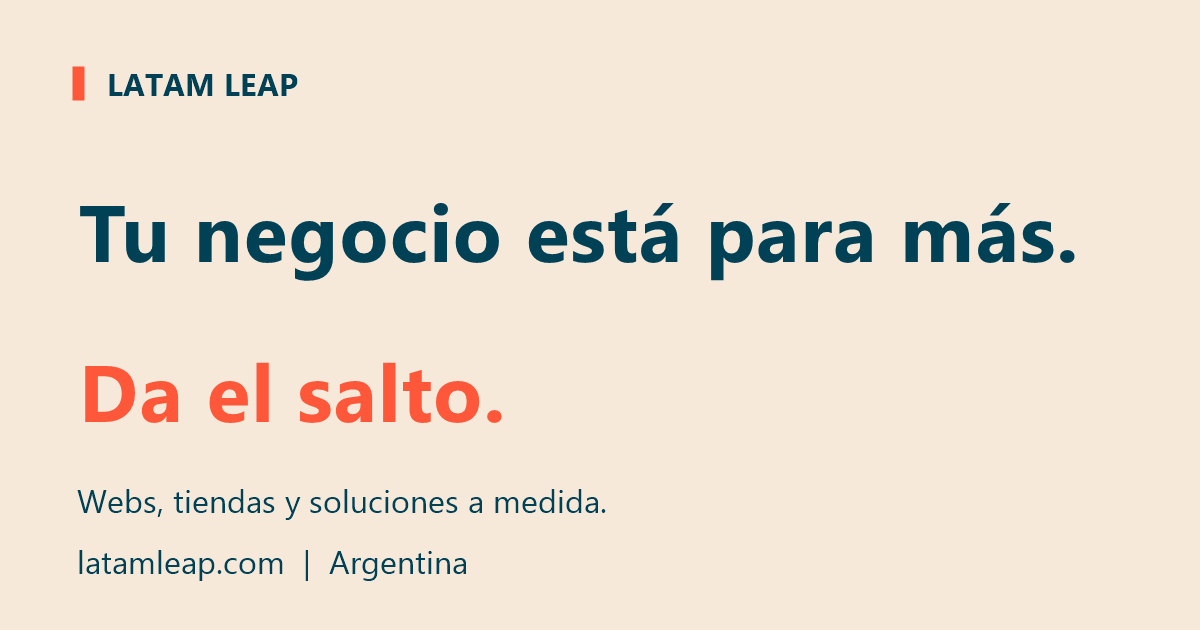
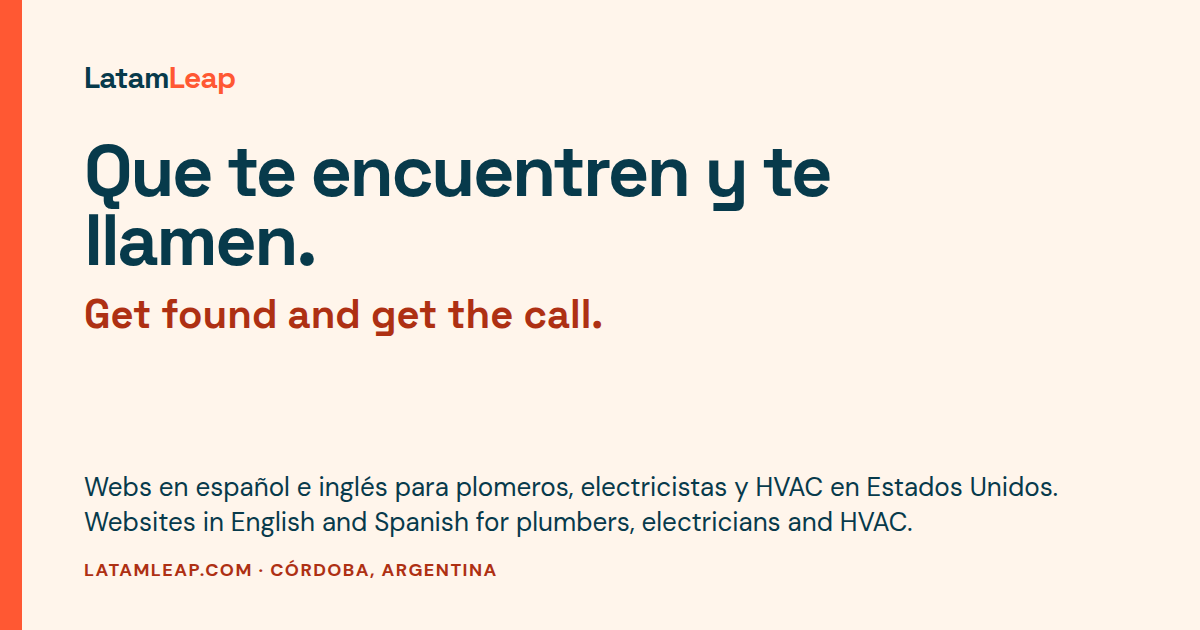
Publish the USD 497 US launch price and pain-led copy. (#5)
The first five clients pay USD 497 in exchange for a testimonial and permission to show the site; after that the price is USD 597, written out with no countdown or spot counter. The US hero and offer intro lead with getting found and getting the call. Also replace the share image, retire /pago, and fix the Argentina menu, tú, footer tap targets, and Google profile contrast.

diff --git a/src/components/HomeSections.tsx b/src/components/HomeSections.tsx
@@ -1,5 +1,6 @@
 import { useContext } from "react";
 import { LanguageContext } from "@/lib/language-context";
+import offers from "../../shared/offers.json";
 import { Copy } from "@/lib/copy";
 import { LocalizedAnchor } from "@/lib/language";
 import { EXAMPLE_URL, INSTAGRAM_URL, whatsAppUrl } from "@/lib/sales";
@@ -16,8 +17,8 @@ import gonzaloAlvarezSmall from "@/assets/projects/gonzalo-alvarez-600.webp";
 export const WHATSAPP_URL = whatsAppUrl("es");
 
 const projects = [
-  { name: "vet.mavie", es: "Sitio web para especialistas veterinarias", en: "Website for veterinary specialists", image: vetMavie, smallImage: vetMavieSmall, href: "https://www.vetmavie.com/", altEs: "Sitio web de vet.mavie", altEn: "vet.mavie website" },
-  { name: "Psicólogo Gonzalo Álvarez", es: "Sitio para un consultorio en Argentina", en: "Website for a practice in Argentina", image: gonzaloAlvarez, smallImage: gonzaloAlvarezSmall, href: "https://www.psicogonzaloalvarez.com/", altEs: "Sitio web del psicólogo Gonzalo Álvarez", altEn: "Website of psychologist Gonzalo Álvarez" },
+  { name: "vet.mavie", nameEn: "vet.mavie", es: "Sitio web para especialistas veterinarias", en: "Website for veterinary specialists", image: vetMavie, smallImage: vetMavieSmall, href: "https://www.vetmavie.com/", altEs: "Sitio web de vet.mavie", altEn: "vet.mavie website" },
+  { name: "Psicólogo Gonzalo Álvarez", nameEn: "Psychologist Gonzalo Álvarez", es: "Sitio para un consultorio en Argentina", en: "Website for a practice in Argentina", image: gonzaloAlvarez, smallImage: gonzaloAlvarezSmall, href: "https://www.psicogonzaloalvarez.com/", altEs: "Sitio web del psicólogo Gonzalo Álvarez", altEn: "Website of psychologist Gonzalo Álvarez" },
 ];
 
 const steps = [
@@ -41,10 +42,10 @@ export const ConnectedSystem = () => (<div className="relative min-h-[430px] sm:
       <div className="grid grid-cols-3 gap-2"><span className="h-12 rounded bg-background/15"/><span className="h-12 rounded bg-background/15"/><span className="h-12 rounded bg-primary"/></div>
     </div>
     <div className="absolute left-[12%] bottom-[14%] bg-card border border-border rounded-lg p-4 shadow-studio w-[49%] animate-float-slow">
-      <div className="flex items-center gap-2 text-xs font-bold text-muted-foreground mb-3"><Code2 size={15} className="text-primary"/><Copy es="Precio fijo" en="Fixed price" /></div>
+      <div className="flex items-center gap-2 text-xs font-bold text-muted-foreground mb-3"><Code2 size={15} className="text-primary"/><Copy es="Lanzamiento" en="Launch price" /></div>
       <div className="space-y-2"><div className="h-1.5 w-5/6 rounded bg-accent"/><div className="h-1.5 w-2/3 rounded bg-muted"/><div className="h-1.5 w-4/5 rounded bg-primary"/></div>
     </div>
-    <div className="absolute right-[8%] bottom-[7%] bg-primary text-primary-foreground rounded-lg px-4 py-3 shadow-studio flex items-center gap-2 text-xs font-bold"><Check size={16}/><span>USD 597</span></div>
+    <div className="absolute right-[8%] bottom-[7%] bg-primary text-primary-foreground rounded-lg px-4 py-3 shadow-studio flex items-center gap-2 text-xs font-bold"><Check size={16}/><span>USD {offers.us.price}</span></div>
     <svg className="absolute inset-0 w-full h-full pointer-events-none" viewBox="0 0 600 500" fill="none" aria-hidden="true"><path d="M220 120C350 120 320 220 420 220M420 280C360 330 300 350 220 380" stroke="currentColor" className="text-primary/50" strokeWidth="2" strokeDasharray="6 8"/></svg>
   </div>
 </div>);
@@ -65,7 +66,7 @@ export const PortfolioSection = () => { const language = useContext(LanguageCont
             </div>
             <div className="lg:col-span-4 lg:px-5">
               <span className="text-xs font-bold text-primary-text">0{index + 1}</span>
-              <h3 className="text-2xl md:text-3xl font-bold mt-3 mb-3 group-hover:text-primary-text transition-colors">{project.name}</h3>
+              <h3 className="text-2xl md:text-3xl font-bold mt-3 mb-3 group-hover:text-primary-text transition-colors">{language === "en" ? project.nameEn : project.name}</h3>
               <p className="text-muted-foreground leading-relaxed mb-5"><Copy es={project.es} en={project.en} /></p>
               <span className="inline-flex items-center gap-2 text-sm font-bold"><Copy es="Ver proyecto" en="View project" /><ArrowUpRight size={16}/></span>
             </div>
@@ -82,7 +83,7 @@ export const ExampleSection = () => (<section id="ejemplo" className="py-20 lg:p
       <p className="section-kicker"><Copy es="Ejemplo" en="Example" /></p>
       <h2 className="text-4xl md:text-6xl font-bold leading-[1.02] mb-5"><Copy es="Así puede verse un negocio de servicios." en="This is what a service business can look like." /></h2>
       <p className="text-lg text-muted-foreground mb-4"><Copy es="Ejemplo de diseño. Negocio ficticio." en="Sample design. Fictional business." /></p>
-      <p className="text-muted-foreground leading-relaxed mb-6"><Copy es="Prime Home Solutions no es un cliente. Es una muestra de plomería, electricidad y HVAC. Lo que incluye el precio está en la oferta de abajo: no todo lo que aparece en el ejemplo forma parte de los USD 597." en="Prime Home Solutions is not a client. It is a sample for plumbing, electrical and HVAC work. What the price includes is in the offer below: not everything on the example is part of the USD 597." /></p>
+      <p className="text-muted-foreground leading-relaxed mb-6"><Copy es={`Prime Home Solutions no es un cliente. Es una muestra de plomería, electricidad y HVAC. Lo que incluye el precio está en la oferta de abajo: no todo lo que aparece en el ejemplo forma parte de los USD ${offers.us.price} de lanzamiento ni de los USD ${offers.us.regularPrice} de después.`} en={`Prime Home Solutions is not a client. It is a sample for plumbing, electrical and HVAC work. What the price includes is in the offer below: not everything on the example is part of the USD ${offers.us.price} launch price or the USD ${offers.us.regularPrice} price after that.`} /></p>
       <ExampleButton />
     </AnimatedSection>
     <figure className="mx-auto w-full max-w-sm">
@@ -121,7 +122,7 @@ export const FinalCTASection = () => (<section id="contacto" className="py-20 lg
     </div>
   </AnimatedSection>
   <AnimatedSection delay={.1} className="bg-card border border-border rounded-lg p-6 md:p-8 shadow-studio">
-    <h3 className="text-2xl font-bold mb-2"><Copy es="Contanos de tu negocio" en="Tell us about your business" /></h3>
+    <h3 className="text-2xl font-bold mb-2"><Copy es="Cuéntame de tu negocio" en="Tell me about your business" /></h3>
     <p className="text-sm text-muted-foreground mb-5"><Copy es="Esto no reserva un diseño. Si encaja, el siguiente paso es la reunión de 10 minutos." en="This does not reserve a design. If it's a fit, the next step is the 10-minute meeting." /></p>
     <AuditForm />
   </AnimatedSection>

diff --git a/src/components/OfferSections.tsx b/src/components/OfferSections.tsx
@@ -92,15 +92,16 @@ export function OfferPricing() {
   return <section id="oferta" className="py-20 lg:py-28 bg-secondary scroll-mt-24"><div id="precios" className="max-w-7xl mx-auto px-5 sm:px-6 scroll-mt-24">
     <div className="max-w-3xl mb-10">
       <p className="section-kicker"><Copy es="La oferta" en="The offer" /></p>
-      <h2 className="text-4xl md:text-6xl font-bold mb-5"><Copy es="Un precio fijo, escrito." en="One fixed price, in writing." /></h2>
-      <p className="text-lg text-muted-foreground"><Copy es="Sin precios tachados y sin lugares limitados. Dominio, hosting y herramientas los pagas tú, en tus propias cuentas." en="No crossed-out prices and no limited spots. You pay for the domain, hosting and tools yourself, in your own accounts." /></p>
+      <h2 className="text-4xl md:text-6xl font-bold mb-5"><Copy es="Para que te encuentren y te llamen." en="So you get found and get the call." /></h2>
+      <p className="text-lg text-muted-foreground"><Copy es={`Si hoy no tienen dónde verte, llaman a otro. Precio de lanzamiento: USD ${offers.us.price} para mis primeros 5 clientes, a cambio de un testimonio y permiso para mostrar tu sitio. Después, USD ${offers.us.regularPrice}. Sin precios tachados y sin contadores de lugares. Dominio, hosting y herramientas los pagas tú, en tus propias cuentas.`} en={`If they have nowhere to see you today, they call someone else. Launch price: USD ${offers.us.price} for my first 5 clients, in exchange for a testimonial and permission to show your site. After that, USD ${offers.us.regularPrice}. No crossed-out prices and no spot counters. You pay for the domain, hosting and tools yourself, in your own accounts.`} /></p>
     </div>
     <article className="max-w-3xl bg-card border border-border rounded-xl p-7 md:p-10 shadow-studio">
       <h3 className="text-2xl md:text-3xl font-bold"><Copy es={offers.us.name.es} en={offers.us.name.en} /></h3>
-      <p className="text-4xl md:text-5xl font-bold mt-4">USD {offers.us.price}</p>
-      <p className="text-sm font-bold text-primary-text mt-1"><Copy es="Precio fijo" en="Fixed price" /></p>
+      <p className="text-sm font-bold uppercase tracking-[0.12em] text-primary-text mt-4"><Copy es="Precio de lanzamiento" en="Launch price" /></p>
+      <p className="text-4xl md:text-5xl font-bold mt-2">USD {offers.us.price}</p>
+      <p className="text-base leading-relaxed mt-3"><Copy es={`Para mis primeros 5 clientes, a cambio de un testimonio y permiso para mostrar tu sitio. Después, USD ${offers.us.regularPrice}.`} en={`For my first 5 clients, in exchange for a testimonial and permission to show your site. After that, USD ${offers.us.regularPrice}.`} /></p>
       <ul className="space-y-3 my-6">{includes.es.map((feature, index) => <li key={feature} className="flex gap-2 text-sm md:text-base"><Check size={18} aria-hidden="true" className="text-primary-text shrink-0 mt-0.5" /><Copy es={feature} en={includes.en[index]} /></li>)}</ul>
-      <p className="text-sm text-muted-foreground leading-relaxed"><Copy es="Alcance del perfil de Google: crear o reclamar la ficha en tu cuenta, categorías, zona de servicio, horarios, descripción en español y en inglés, y el enlace a la web. Las fotos las traes tú. La verificación la haces tú, según lo que pida Google. No garantizo aparecer ni quedar primero." en="Google profile scope: create or claim the listing in your account, categories, service area, hours, an English and Spanish description, and the link to the site. You provide the photos. You complete verification, however Google asks for it. I don't guarantee that you will show up or rank first." /></p>
+      <p className="text-base text-foreground leading-relaxed"><Copy es="Alcance del perfil de Google: crear o reclamar la ficha en tu cuenta, categorías, zona de servicio, horarios, descripción en español y en inglés, y el enlace a la web. Las fotos las traes tú. La verificación la haces tú, según lo que pida Google. No garantizo aparecer ni quedar primero." en="Google profile scope: create or claim the listing in your account, categories, service area, hours, an English and Spanish description, and the link to the site. You provide the photos. You complete verification, however Google asks for it. I don't guarantee that you will show up or rank first." /></p>
       <p className="text-sm text-muted-foreground leading-relaxed mt-4"><Copy es="Pagas aparte, en tus propias cuentas: dominio, hosting y cualquier herramienta. Todo queda a tu nombre." en="You pay separately, in your own accounts: domain, hosting and any tools. Everything stays in your name." /></p>
       <p className="font-bold mt-4"><Copy es="Pago: 50% para empezar, 50% antes de publicar, por solicitud de pago de Wise." en="Payment: 50% to start, 50% before launch, by Wise payment request." /></p>
       <div className="mt-8 border-t border-border pt-6">

diff --git a/src/components/Footer.tsx b/src/components/Footer.tsx
@@ -1,15 +1,20 @@
+import { Link, useLocation } from "react-router-dom";
 import { Copy } from "@/lib/copy";
 import { LocalizedAnchor } from "@/lib/language";
-import { Link } from "react-router-dom";
 import { Instagram } from "lucide-react";
 import { INSTAGRAM_URL, whatsAppUrl } from "@/lib/sales";
 import { ArgentinaLink } from "./SalesActions";
 
-const links = [
+const usLinks = [
   { es: "Ejemplo", en: "Example", href: "/#ejemplo" },
   { es: "Precio", en: "Price", href: "/#oferta" },
   { es: "Proceso", en: "Process", href: "/#proceso" },
   { es: "Preguntas", en: "Questions", href: "/#preguntas" },
+];
+const argentinaLinks = [
+  { es: "Precio", en: "Precio", href: "#oferta" },
+  { es: "Trabajos", en: "Trabajos", href: "#trabajos" },
+  { es: "A medida", en: "A medida", href: "#a-medida" },
 ];
 const legalLinks = [
   { es: "Privacidad", en: "Privacy", href: "/privacy-policy" },
@@ -17,7 +22,12 @@ const legalLinks = [
   { es: "Eliminar datos", en: "Delete data", href: "/data-deletion" },
 ];
 
-const Footer = () => (<footer className="bg-foreground text-background py-12">
+const tap = "inline-flex items-center min-h-11 px-3 text-sm text-background/80 hover:text-primary transition-colors";
+
+const Footer = () => {
+  const onArgentina = useLocation().pathname === "/argentina";
+  const links = onArgentina ? argentinaLinks : usLinks;
+  return (<footer className="bg-foreground text-background pt-12 pb-28 lg:pb-12">
   <div className="max-w-7xl mx-auto px-6 flex flex-col gap-8">
     <div className="flex flex-col md:flex-row items-center justify-between gap-6">
       <div className="text-center md:text-left">
@@ -26,23 +36,24 @@ const Footer = () => (<footer className="bg-foreground text-background py-12">
         </div>
         <p className="text-[11px] text-background/60"><Copy es="© 2026 Latam Leap. Estudio en Córdoba, Argentina. Webs para negocios de servicios." en="© 2026 Latam Leap. Studio in Córdoba, Argentina. Websites for service businesses." /></p>
       </div>
-      <div className="flex items-center gap-6 flex-wrap justify-center">
-        {links.map((l) => (<LocalizedAnchor key={l.href} href={l.href} className="text-xs text-background/70 hover:text-primary transition-colors">
+      <div className="flex items-center gap-1 flex-wrap justify-center">
+        {links.map((l) => onArgentina ? (<a key={l.href} href={l.href} className={tap}><Copy es={l.es} en={l.en} /></a>) : (<LocalizedAnchor key={l.href} href={l.href} className={tap}>
           <Copy es={l.es} en={l.en} />
         </LocalizedAnchor>))}
-        <LocalizedAnchor href={INSTAGRAM_URL} target="_blank" rel="noopener noreferrer" className="inline-flex items-center gap-1.5 text-xs text-background/70 hover:text-primary transition-colors">
-          <Instagram size={14}/> Instagram
+        <LocalizedAnchor href={INSTAGRAM_URL} target="_blank" rel="noopener noreferrer" className={`${tap} gap-1.5`}>
+          <Instagram size={16}/> Instagram
         </LocalizedAnchor>
-        <LocalizedAnchor href={whatsAppUrl("es")} target="_blank" rel="noopener noreferrer" className="text-xs bg-primary text-primary-foreground font-bold px-4 py-2 rounded-lg hover:bg-primary-hover transition-all">WhatsApp →</LocalizedAnchor>
+        <LocalizedAnchor href={whatsAppUrl("es")} target="_blank" rel="noopener noreferrer" className="inline-flex items-center min-h-11 text-sm bg-primary text-primary-foreground font-bold px-4 rounded-lg hover:bg-primary-hover transition-all">WhatsApp →</LocalizedAnchor>
       </div>
     </div>
-    <div className="border-t border-background/20 pt-6 flex flex-col md:flex-row items-center justify-center gap-x-6 gap-y-3 flex-wrap">
-      <ArgentinaLink className="text-[11px] text-background/80 hover:text-primary transition-colors underline-offset-4 hover:underline min-h-11 inline-flex items-center" />
-      {legalLinks.map((l) => (<Link key={l.href} to={l.href} className="text-[11px] text-background/60 hover:text-primary transition-colors">
+    <div className="border-t border-background/20 pt-4 flex flex-col md:flex-row items-center justify-center gap-x-1 gap-y-1 flex-wrap">
+      <ArgentinaLink className={`${tap} underline-offset-4 hover:underline`} />
+      {legalLinks.map((l) => (<Link key={l.href} to={l.href} className={tap}>
         <Copy es={l.es} en={l.en} />
       </Link>))}
-      <a href="mailto:hola@latamleap.com" className="text-[11px] text-background/60 hover:text-primary transition-colors">hola@latamleap.com</a>
+      <a href="mailto:hola@latamleap.com" className={tap}>hola@latamleap.com</a>
     </div>
   </div>
 </footer>);
+};
 export default Footer;

diff --git a/src/components/HeroSection.tsx b/src/components/HeroSection.tsx
@@ -1,4 +1,5 @@
 import { Copy } from "@/lib/copy";
+import offers from "../../shared/offers.json";
 import SocialLinks from "./SocialLinks";
 import { ConnectedSystem } from "./HomeSections";
 import { ArgentinaLink, BookButton, ExampleButton, WhatsAppLink } from "./SalesActions";
@@ -8,8 +9,11 @@ const HeroSection = () => (<section className="relative pt-8 lg:pt-12 pb-16 lg:p
     <div className="grid lg:grid-cols-[1.02fr_.98fr] gap-12 lg:gap-16 items-center">
       <div className="max-w-2xl">
         <p className="section-kicker"><Copy es="Estudio en Córdoba, Argentina" en="Studio in Córdoba, Argentina" /></p>
-        <h1 className="font-bold text-[42px] sm:text-6xl lg:text-[64px] xl:text-[68px] leading-[.98] mb-7"><Copy es="Una web en español y en inglés para tu negocio de servicios." en="A website in English and Spanish for your service business." /></h1>
-        <p className="text-muted-foreground text-lg lg:text-xl leading-relaxed max-w-xl mb-8"><Copy es="Para plomeros, electricistas y técnicos de HVAC. Tus clientes ven qué haces y en qué zona trabajas, y te mandan el pedido por WhatsApp. Precio fijo: USD 597. Trabajo a distancia: no tengo oficina en Estados Unidos." en="For plumbers, electricians and HVAC pros. Customers see what you do and where you work, and send you the job request on WhatsApp. Fixed price: USD 597. I work remotely: I don't have an office in the United States." /></p>
+        <h1 className="font-bold text-[42px] sm:text-6xl lg:text-[64px] xl:text-[68px] leading-[.98] mb-5"><Copy es="Te buscan en Google y llaman a otro." en="They search on Google and call someone else." /></h1>
+        <p className="text-xl lg:text-2xl font-bold leading-snug mb-5"><Copy es="Para que te encuentren y te llamen." en="So you get found and get the call." /></p>
+        <p className="text-muted-foreground text-lg lg:text-xl leading-relaxed max-w-xl mb-4"><Copy es="Si no te encuentran, o no confían en lo que ven, llaman al competidor que sí tiene una web. Si dependes del boca a boca o de Facebook, el cliente que habla inglés no tiene dónde verte. Me mandas el logo y las fotos por WhatsApp: yo hago el resto, incluido tu perfil de Google. Primera versión en 2 días hábiles después de la seña y los materiales completos." en="If they don't find you, or they don't trust what they see, they call the competitor who does have a website. If you rely on word of mouth or Facebook, English-speaking customers have nowhere to see you. You send your logo and photos over WhatsApp: I do the rest, including your Google profile. First version in 2 business days after the deposit and the complete materials." /></p>
+        <p className="text-foreground text-lg leading-relaxed max-w-xl mb-3"><Copy es={`Precio de lanzamiento: USD ${offers.us.price} para mis primeros 5 clientes, a cambio de un testimonio y permiso para mostrar tu sitio. Después, USD ${offers.us.regularPrice}.`} en={`Launch price: USD ${offers.us.price} for my first 5 clients, in exchange for a testimonial and permission to show your site. After that, USD ${offers.us.regularPrice}.`} /></p>
+        <p className="text-sm text-muted-foreground max-w-xl mb-8"><Copy es="Trabajo a distancia: no tengo oficina en Estados Unidos." en="I work remotely: I don't have an office in the United States." /></p>
         <div className="flex flex-col sm:flex-row sm:flex-wrap gap-3 sm:items-center">
           <BookButton />
           <ExampleButton />

diff --git a/src/components/Navbar.tsx b/src/components/Navbar.tsx
@@ -6,11 +6,16 @@ import { useContext, useState, useEffect } from "react";
 import { Link, useLocation } from "react-router-dom";
 import { Menu, X } from "lucide-react";
 
-const links = [
+const usLinks = [
   { es: "Ejemplo", en: "Example", href: "/#ejemplo" },
   { es: "Precio", en: "Price", href: "/#oferta" },
   { es: "Proceso", en: "Process", href: "/#proceso" },
   { es: "Preguntas", en: "Questions", href: "/#preguntas" },
+];
+const argentinaLinks = [
+  { es: "Precio", en: "Precio", href: "#oferta" },
+  { es: "Trabajos", en: "Trabajos", href: "#trabajos" },
+  { es: "A medida", en: "A medida", href: "#a-medida" },
 ];
 
 const Navbar = () => {
@@ -18,6 +23,8 @@ const Navbar = () => {
   const [open, setOpen] = useState(false);
   const [scrolled, setScrolled] = useState(false);
   const location = useLocation();
+  const onArgentina = location.pathname === "/argentina";
+  const links = onArgentina ? argentinaLinks : usLinks;
   useEffect(() => {
     const onScroll = () => setScrolled(window.scrollY > 20);
     window.addEventListener("scroll", onScroll, { passive: true });
@@ -33,17 +40,17 @@ const Navbar = () => {
         <span className="font-display font-bold text-foreground text-xl">Latam<span className="text-primary">Leap</span></span>
       </Link>
       <div className="hidden lg:flex items-center gap-6 xl:gap-8">
-        {links.map((l) => (<a key={l.href} href={location.pathname === "/argentina" && l.href === "/#oferta" ? "#oferta" : language === "en" ? `/en${l.href}` : l.href} className="text-sm text-muted-foreground hover:text-foreground transition-colors">
+        {links.map((l) => (<a key={l.href} href={onArgentina ? l.href : language === "en" ? `/en${l.href}` : l.href} className="text-sm text-muted-foreground hover:text-foreground transition-colors">
           <Copy es={l.es} en={l.en} />
         </a>))}
         <BookButton />
       </div>
-      <div className="flex items-center gap-3"><LanguageSwitcher /><button className="lg:hidden text-foreground p-2 -mr-2 min-h-11 min-w-11 inline-flex items-center justify-center" onClick={() => setOpen(!open)} aria-label={language === "en" ? (open ? "Close menu" : "Open menu") : (open ? "Cerrar menú" : "Abrir menú")} aria-expanded={open}>
+      <div className="flex items-center gap-3">{onArgentina ? null : <LanguageSwitcher />}<button className="lg:hidden text-foreground p-2 -mr-2 min-h-11 min-w-11 inline-flex items-center justify-center" onClick={() => setOpen(!open)} aria-label={language === "en" ? (open ? "Close menu" : "Open menu") : (open ? "Cerrar menú" : "Abrir menú")} aria-expanded={open}>
         {open ? <X size={24}/> : <Menu size={24}/>}
       </button></div>
     </div>
     {open && (<div className="lg:hidden bg-card border-t border-border px-6 py-6 space-y-4">
-      {links.map((l) => (<a key={l.href} href={location.pathname === "/argentina" && l.href === "/#oferta" ? "#oferta" : language === "en" ? `/en${l.href}` : l.href} className="block text-foreground text-base min-h-11" onClick={() => setOpen(false)}>
+      {links.map((l) => (<a key={l.href} href={onArgentina ? l.href : language === "en" ? `/en${l.href}` : l.href} className="inline-flex items-center text-foreground text-base min-h-11" onClick={() => setOpen(false)}>
         <Copy es={l.es} en={l.en} />
       </a>))}
       <BookButton className="w-full" />

diff --git a/index.html b/index.html
@@ -11,7 +11,7 @@
     <link rel="preload" href="/fonts/dm-sans-latin.woff2" as="font" type="font/woff2" crossorigin>
     <link rel="preload" href="/fonts/space-grotesk-latin.woff2" as="font" type="font/woff2" crossorigin>
     <title>Web bilingüe para negocios de servicios | Latam Leap</title>
-    <meta name="description" content="Web bilingüe para plomeros, electricistas y HVAC en EE. UU. Cinco secciones, formulario a WhatsApp y Google Business Profile. Precio fijo USD 597.">
+    <meta name="description" content="Web bilingüe para plomeros, electricistas y HVAC en EE. UU. Que te encuentren y te llamen. Precio de lanzamiento: USD 497 para los primeros 5 clientes; después, USD 597.">
     
     
     <meta property="og:type" content="website" />
@@ -32,13 +32,14 @@
   
   <meta property="og:title" content="Web bilingüe para negocios de servicios | Latam Leap">
   <meta name="twitter:title" content="Web bilingüe para negocios de servicios | Latam Leap">
-  <meta property="og:description" content="Web bilingüe para plomeros, electricistas y HVAC en EE. UU. Cinco secciones, formulario a WhatsApp y Google Business Profile. Precio fijo USD 597.">
-  <meta name="twitter:description" content="Web bilingüe para plomeros, electricistas y HVAC en EE. UU. Cinco secciones, formulario a WhatsApp y Google Business Profile. Precio fijo USD 597.">
+  <meta property="og:description" content="Web bilingüe para plomeros, electricistas y HVAC en EE. UU. Que te encuentren y te llamen. Precio de lanzamiento: USD 497 para los primeros 5 clientes; después, USD 597.">
+  <meta name="twitter:description" content="Web bilingüe para plomeros, electricistas y HVAC en EE. UU. Que te encuentren y te llamen. Precio de lanzamiento: USD 497 para los primeros 5 clientes; después, USD 597.">
 
 <meta property="og:site_name" content="Latam Leap" />
 <meta property="og:image:width" content="1200" />
 <meta property="og:image:height" content="630" />
-<meta property="og:image:alt" content="LatamLeap: webs bilingües para negocios de servicios." />
+<meta property="og:image:alt" content="LatamLeap: que te encuentren y te llamen. Webs en español e inglés para plomeros, electricistas y HVAC." />
+<meta name="twitter:image:alt" content="LatamLeap: que te encuentren y te llamen. Webs en español e inglés para plomeros, electricistas y HVAC." />
 </head>
   <body>
     <div id="root"></div>

diff --git a/src/components/SEO.tsx b/src/components/SEO.tsx
@@ -15,7 +15,7 @@ export default function SEO() {
   const route = model.localized(pathname, language);
   useEffect(() => {
     const page = model.pages[route];
-    const [title, description] = page || (language === "es" ? ["Página no disponible | Latam Leap", "Consultá nuestros servicios o volvé al inicio."] : ["Page unavailable | Latam Leap", "Explore our services or return to the home page."]);
+    const [title, description] = page || (language === "es" ? ["Página no disponible | Latam Leap", "Consulta nuestros servicios o vuelve al inicio."] : ["Page unavailable | Latam Leap", "Explore our services or return to the home page."]);
     document.title = title;
     document.documentElement.lang = language;
     const meta = (selector: string, value: string) => document.querySelector(selector)?.setAttribute("content", value);
@@ -26,8 +26,13 @@ export default function SEO() {
     meta('meta[property="og:locale"]', language === "es" ? "es_AR" : "en_US");
     meta('meta[name="twitter:title"]', title);
     meta('meta[name="twitter:description"]', description);
+    const imageAlt = language === "es"
+      ? "LatamLeap: que te encuentren y te llamen. Webs en español e inglés para plomeros, electricistas y HVAC."
+      : "LatamLeap: get found and get the call. Websites in English and Spanish for plumbers, electricians and HVAC.";
     meta('meta[property="og:image"]', `${model.origin}/og-latamleap.png`);
+    meta('meta[property="og:image:alt"]', imageAlt);
     meta('meta[name="twitter:image"]', `${model.origin}/og-latamleap.png`);
+    meta('meta[name="twitter:image:alt"]', imageAlt);
     meta('meta[name="twitter:card"]', "summary_large_image");
     meta('meta[name="robots"]', model.isIndexable(route) ? "index,follow,max-image-preview:large" : "noindex,follow");
     const google = String(seo.googleSiteVerification || "").trim();

diff --git a/src/components/AuditForm.tsx b/src/components/AuditForm.tsx
@@ -36,12 +36,12 @@ export default function AuditForm({ showWhatsAppAlt = true }: Props) {
       const response = await fetch("/api/leads", { method: "POST", headers: { "Content-Type": "application/json" }, body: JSON.stringify({ ...payload, submissionId: submission.current.id }), signal: AbortSignal.timeout(20000) });
       const result = await response.json();
       if (!response.ok || !result.ok) {
-        setError(response.status === 429 ? "Esperá un minuto antes de volver a enviar. También podés escribirnos por WhatsApp." : "No pudimos enviar tu consulta. Tus datos siguen acá: intentá nuevamente o escribinos por WhatsApp.");
+        setError(response.status === 429 ? "Espera un minuto antes de volver a enviar. También puedes escribirme por WhatsApp." : "No pudimos enviar tu consulta. Tus datos siguen aquí: intenta de nuevo o escríbeme por WhatsApp.");
         setStatus("error"); return;
       }
       setStatus("success");
     } catch {
-      setError("No pudimos enviar tu consulta. Tus datos siguen acá: intentá nuevamente o escribinos por WhatsApp."); setStatus("error");
+      setError("No pudimos enviar tu consulta. Tus datos siguen aquí: intenta de nuevo o escríbeme por WhatsApp."); setStatus("error");
     } finally { sending.current = false; }
   };
   if (status === "success") return <div role="status" className="space-y-4"><h3 className="text-xl font-bold"><Copy es="Recibimos tu mensaje." en="We got your message." /></h3><p><Copy es="Te vamos a escribir al correo que dejaste. Si prefieres, agenda 10 minutos." en="We'll write to the email you left. If you prefer, book 10 minutes." /></p><a className="underline font-bold" href={CALENDAR_URL}><Copy es="Agendar 10 minutos" en="Book 10 minutes" /></a></div>;

diff --git a/src/App.tsx b/src/App.tsx
@@ -1,6 +1,5 @@
 import { LanguageContext } from "./lib/language-context";
 import { CurrencyProvider } from "./lib/currency";
-import PaymentReturn from "./pages/PaymentReturn";
 import SEO from "./components/SEO";
 import { StaticRouter } from "react-router-dom/server";
 import { BrowserRouter, Navigate, Route, Routes } from "react-router-dom";
@@ -25,7 +24,7 @@ const App = ({ url = "/" }: { url?: string }) => {
             <Route path="/" element={<Index />} />
             <Route path="/argentina" element={<Argentina />} />
             <Route path="/comprar/:planId" element={<Navigate to="/#oferta" replace />} />
-            <Route path="/pago" element={<PaymentReturn />} />
+            <Route path="/pago" element={<Navigate to="/#oferta" replace />} />
             <Route path="/services" element={<Navigate to="/#oferta" replace />} />
             <Route path="/services/:serviceSlug" element={<Navigate to="/#oferta" replace />} />
             <Route path="/case-studies" element={<CaseStudies />} />

diff --git a/src/pages/CaseStudies.tsx b/src/pages/CaseStudies.tsx
@@ -1,3 +1,3 @@
-import { Text, LocalizedAnchor } from "@/lib/language";
+import { Text } from "@/lib/language";
 import { PortfolioSection, FinalCTASection } from "@/components/HomeSections";
-export default function CaseStudies() { return <><section className="pt-32 px-6 max-w-7xl mx-auto"><h1 className="text-4xl md:text-6xl font-bold"><Text value={"Proyectos web para negocios reales"}/></h1><p className="text-lg text-muted-foreground mt-5"><Text value={"Explor\u00E1 el dise\u00F1o y la experiencia de nuestros proyectos seleccionados."}/></p></section><PortfolioSection /><FinalCTASection /></>; }
+export default function CaseStudies() { return <><section className="pt-32 px-6 max-w-7xl mx-auto"><h1 className="text-4xl md:text-6xl font-bold"><Text value={"Proyectos web para negocios reales"}/></h1><p className="text-lg text-muted-foreground mt-5"><Text value={"Explora el diseño y la experiencia de los proyectos seleccionados."}/></p></section><PortfolioSection /><FinalCTASection /></>; }

diff --git a/src/pages/Argentina.tsx b/src/pages/Argentina.tsx
@@ -51,7 +51,7 @@ export default function Argentina() {
         </article>
       </div>
     </section>
-    <section className="py-16">
+    <section id="trabajos" className="py-16 scroll-mt-24">
       <div className="max-w-5xl mx-auto px-5 sm:px-6">
         <h2 className="text-3xl md:text-5xl font-bold mb-4">Trabajos</h2>
         <p className="text-muted-foreground mb-8 max-w-3xl">Proyectos reales en Argentina. No publicamos testimonios que no tengamos.</p>
@@ -71,7 +71,7 @@ export default function Argentina() {
         </figure>
       </div>
     </section>
-    <section className="py-16 bg-card">
+    <section id="a-medida" className="py-16 bg-card scroll-mt-24">
       <div className="max-w-3xl mx-auto px-5 sm:px-6">
         <h2 className="text-3xl font-bold mb-3">Proyectos a medida</h2>
         <p className="text-muted-foreground">Tiendas, sistemas y rifas: consultá. Se cotizan aparte y no forman parte de la web de 5 secciones.</p>

diff --git a/src/lib/language.tsx b/src/lib/language.tsx
@@ -26,6 +26,7 @@ export const LocalizedAnchor = forwardRef<HTMLAnchorElement, AnchorHTMLAttribute
 export function LanguageSwitcher() {
   const language = useContext(LanguageContext);
   const {pathname, hash, search} = useLocation();
+  if (pathname === "/argentina") return null;
   const bare = `${pathname === "/" ? "" : pathname}${search}${hash}`;
   const esHref = language === "en" ? `/es${bare}` : `${pathname}${search}${hash}`;
   const enHref = language === "en" ? `${pathname}${search}${hash}` : `/en${bare}`;
